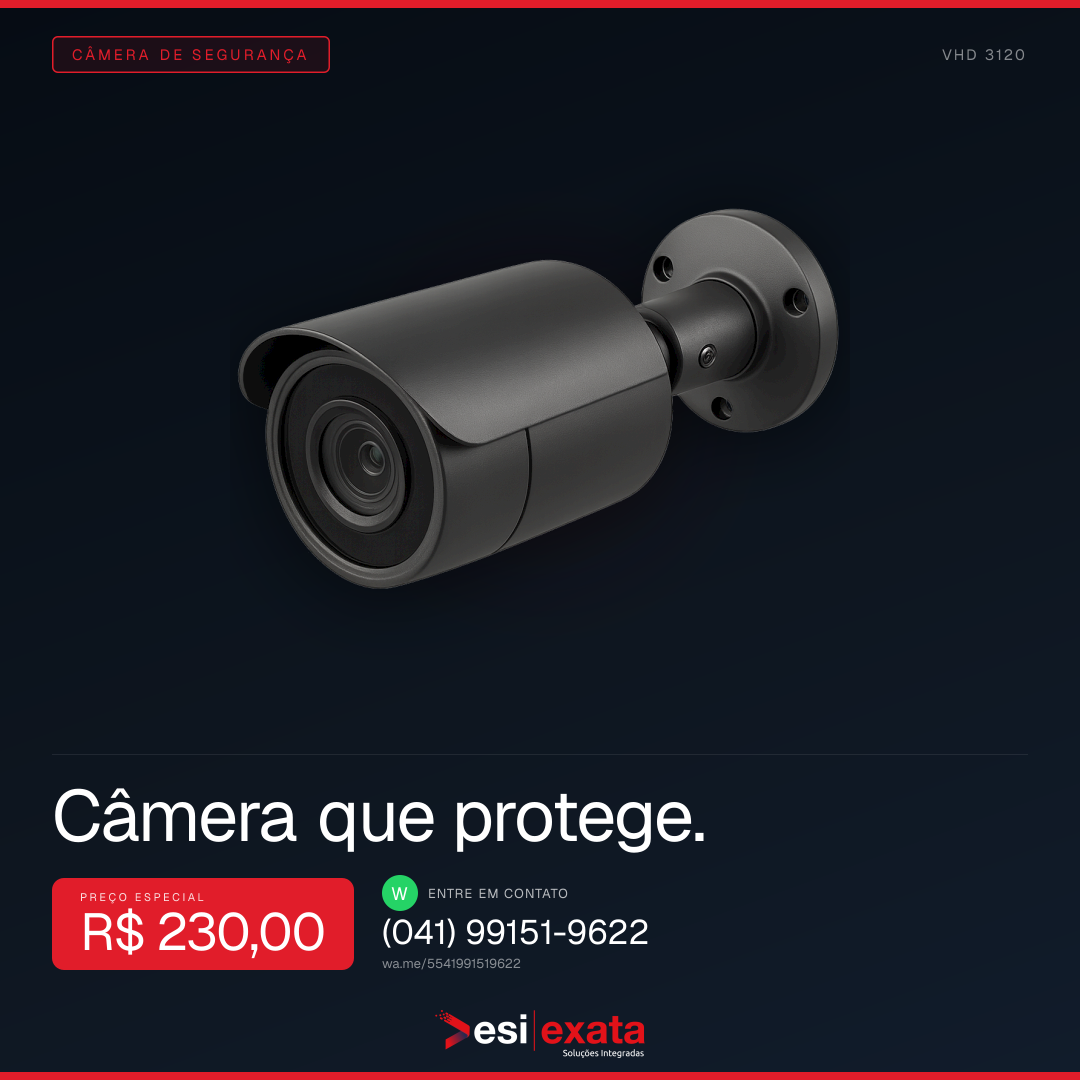
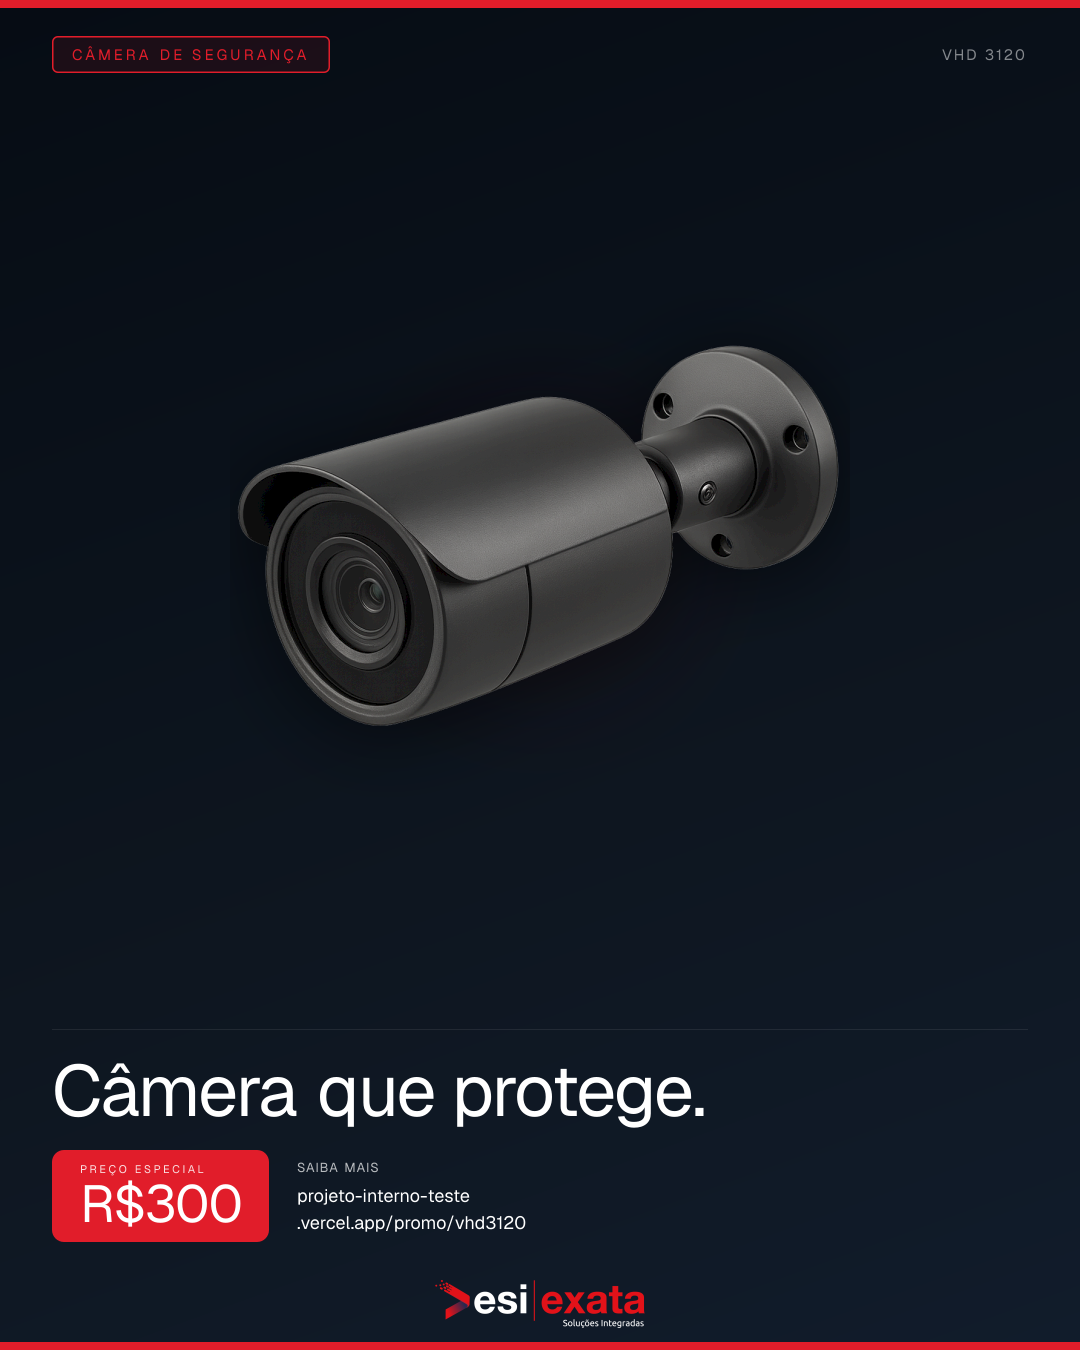
feat: arte WhatsApp VHD 3120 Intelbras — R$300 com CTA landing page (VIZ-103)
- Preço atualizado para R$300/unidade
- CTA URL: projeto-interno-teste.vercel.app/promo/vhd3120
- Formato 1080x1350px (WhatsApp/Instagram feed 4:5)
- Identidade visual ESI Exata: fundo escuro, barra vermelha, logo PNG real
- Foto real do produto VHD 3120 centralizada

diff --git a/scripts/gen-whatsapp-vhd3120.js b/scripts/gen-whatsapp-vhd3120.js
@@ -1,9 +1,9 @@
 #!/usr/bin/env node
 /**
- * Gera imagem WhatsApp promocional — Intelbras VHD 3120 (R$230)
+ * Gera imagem WhatsApp promocional — Intelbras VHD 3120 (R$300)
  * Usa @vercel/og (satori + resvg) para renderizar HTML com texto correto.
  * Identidade visual ESI Exata (brand-spec.json).
- * v2: foto real do produto gerada via gpt-image-1
+ * v3: preco R$300, CTA URL landing page
  */
 const { ImageResponse } = require(
   'next/dist/compiled/@vercel/og/index.node.js'
@@ -16,9 +16,9 @@ const fontRegular = fs.readFileSync(
   path.resolve(__dirname, '../node_modules/next/dist/compiled/@vercel/og/Geist-Regular.ttf')
 );
 
-// 1080x1080 square — ideal WhatsApp format
+// 1080x1350 — formato WhatsApp/Instagram feed (4:5)
 const W = 1080;
-const H = 1080;
+const H = 1350;
 
 // Brand colors
 const ESI_RED = '#E11D2A';
@@ -176,49 +176,28 @@ const element = h('div', {
         }, 'PREÇO ESPECIAL'),
         h('span', {
           style: { fontSize: 52, fontWeight: 700, color: WHITE, letterSpacing: -1.5, lineHeight: 1 }
-        }, 'R$ 230,00')
+        }, 'R$300')
       ),
 
-      // WhatsApp CTA
+      // URL CTA
       h('div', {
         style: {
           display: 'flex',
           flexDirection: 'column',
           gap: 4,
+          flex: 1,
+          justifyContent: 'center',
         }
       },
-        h('div', {
-          style: {
-            display: 'flex',
-            flexDirection: 'row',
-            alignItems: 'center',
-            gap: 10,
-          }
-        },
-          h('div', {
-            style: {
-              display: 'flex',
-              width: 36,
-              height: 36,
-              borderRadius: '50%',
-              background: '#25D366',
-              alignItems: 'center',
-              justifyContent: 'center',
-              flexShrink: 0,
-            }
-          },
-            h('span', { style: { fontSize: 18, fontWeight: 700, color: WHITE } }, 'W')
-          ),
-          h('span', {
-            style: { fontSize: 13, fontWeight: 700, color: WHITE_70, letterSpacing: 1 }
-          }, 'ENTRE EM CONTATO')
-        ),
         h('span', {
-          style: { fontSize: 34, fontWeight: 700, color: WHITE, letterSpacing: 0, lineHeight: 1 }
-        }, '(041) 99151-9622'),
+          style: { fontSize: 13, fontWeight: 700, color: WHITE_70, letterSpacing: 1, marginBottom: 4 }
+        }, 'SAIBA MAIS'),
         h('span', {
-          style: { fontSize: 13, color: WHITE_50, marginTop: 2 }
-        }, 'wa.me/5541991519622')
+          style: { fontSize: 18, fontWeight: 500, color: WHITE, letterSpacing: 0, lineHeight: 1.3 }
+        }, 'projeto-interno-teste'),
+        h('span', {
+          style: { fontSize: 18, fontWeight: 500, color: WHITE, letterSpacing: 0, lineHeight: 1.3 }
+        }, '.vercel.app/promo/vhd3120')
       )
     )
   ),
